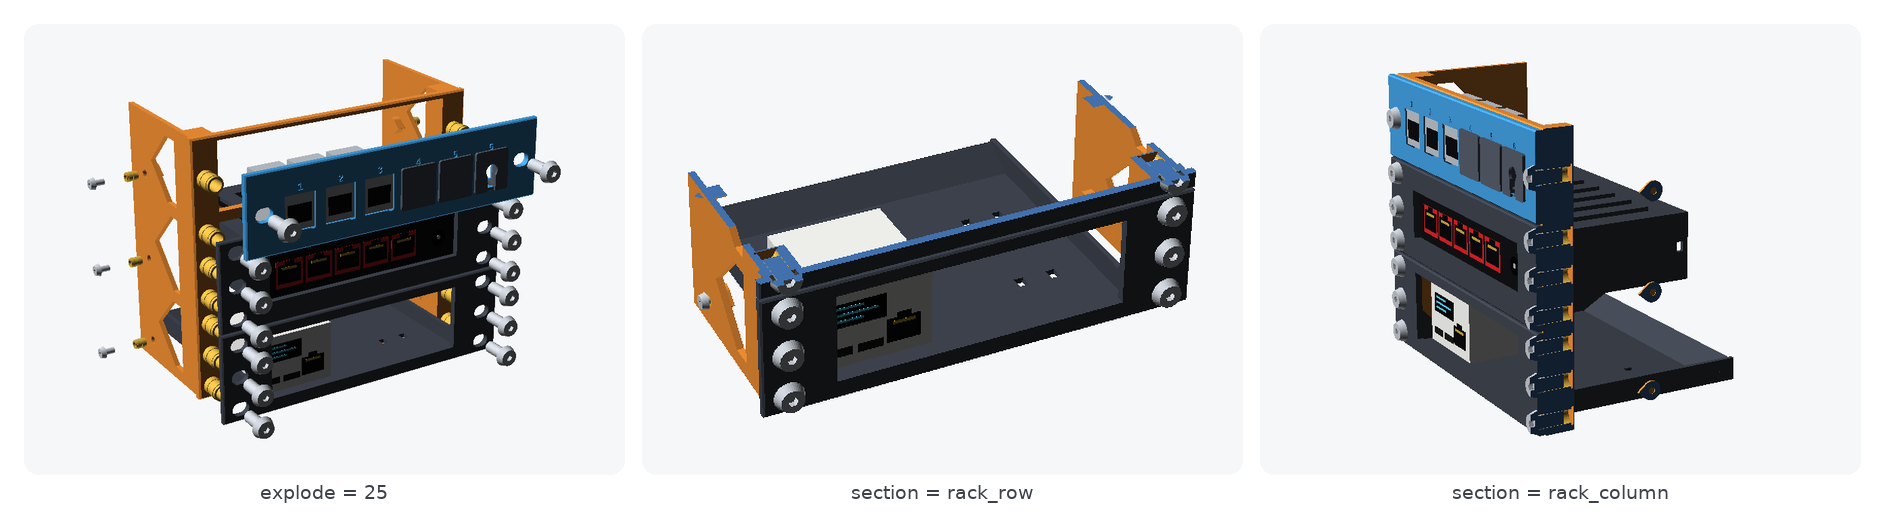
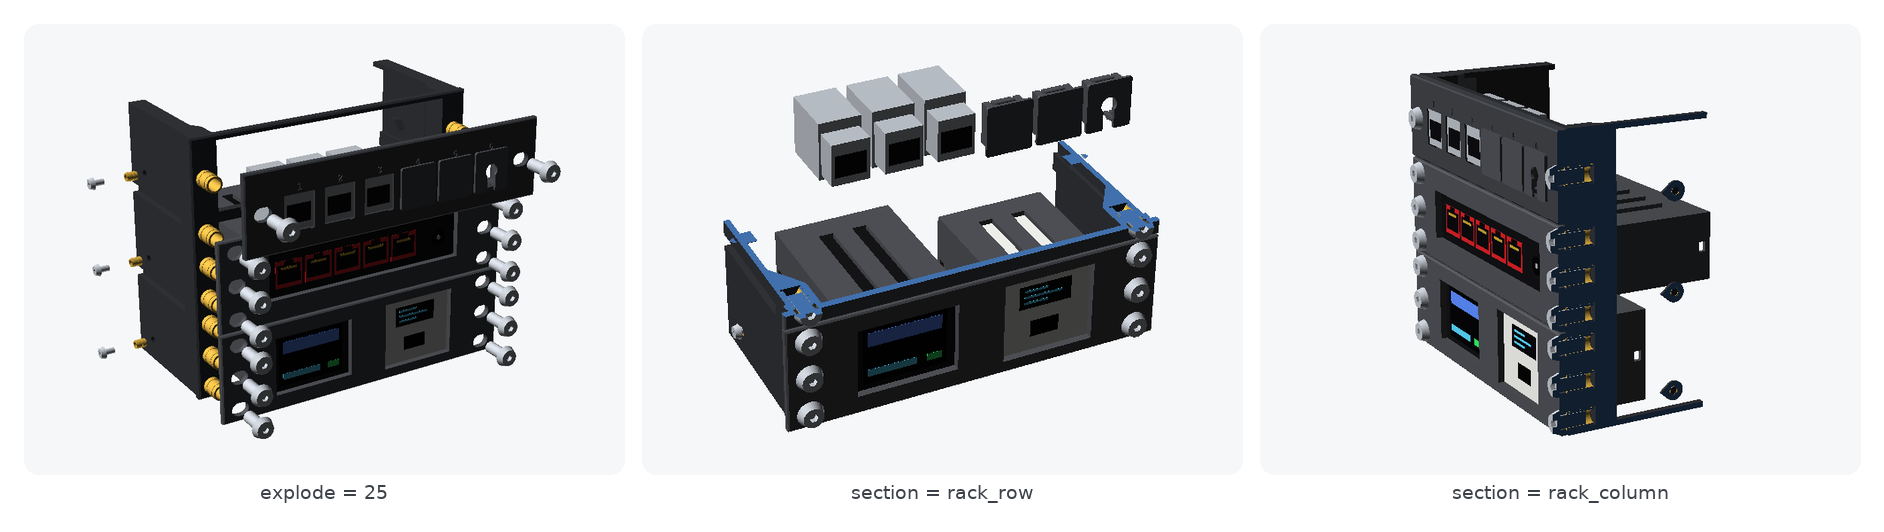
README images rendered again from the v2 adapter (new trays, NanoKVM bay); fix the 3D preview hanging on a build with no rack units (empty module list looped backwards)

diff --git a/scripts/render_docs.py b/scripts/render_docs.py
@@ -27,7 +27,7 @@ BEZEL = {"front_style": "bezel", "filler_mode": "integral"}
 
 # name: (camera, raw size, viewall, params)  - raw size is 2x the card size
 VIEWS = {
-    "homelab-back":    ("1150,1650,800,240,260,-60", "1200,900", False, {}),
+    "rack-nkvm":       ("-170,-330,150,0,0,60", "1200,900", False, {"scene": "single", "case_view": "none", "rack_modules": "nkvm:side,ms105g"}),
     "rack-close":      ("-170,-330,150,0,0,60", "1200,900", False, {"scene": "single", "case_view": "none"}),
     "mounted-bezel":   (CLOSE, "1200,900", False, {**BEZEL, "scene": "single"}),
     "mounted-1bay":    ("-260,-400,200,0,40,15", "1200,900", False, {"bays": 1, "case_model": "obsidian750d", **BEZEL, "scene": "single"}),
@@ -56,8 +56,8 @@ VIEWS = {
 }
 
 SHEETS = {
-    "homelab.png":  (2, [("homelab-back", "cables: back of the case -> patch panel"),
-                         ("rack-close", "MS105G switch · NanoKVM shelf · patch panel")]),
+    "homelab.png":  (2, [("rack-nkvm", "NanoKVM bay · MS105G switch · patch panel"),
+                         ("rack-close", "MS105G switch · JetKVM + NanoKVM tray · patch panel")]),
     "variants.png": (3, [("pf-1", "plate-flush · 1 bay · 6-port patch"),
                          ("pf-3", "plate-flush · 3 bays · 2U + patch"),
                          ("pf-4", "plate-flush · 4 bays · 3U + patch"),

diff --git a/CHANGELOG.md b/CHANGELOG.md
@@ -5,6 +5,8 @@ on the photos and in the MakerWorld notes.
 
 ## Unreleased
 
+- README images rendered again from the v2 adapter, with the new trays and the NanoKVM bay.
+- Fixed: a 1-bay build (no rack units) hung the 3D preview.
 - Tolerances: `ks_fit` for every keystone opening (cells, cut-outs and covers follow), `nkvm_insert_d`, `mount_clear` round the NanoKVM; README and web tell you to print the test pieces first and tune them.
 - Every number and size has a range (customizer and web), and the model warns about values that do not go together.
 - NanoKVM bay (`nkvm:side`, `nkvm:front`) with a lid on M3 heat-set inserts: standing in a front pocket with its heatsink facing out and the plugs inside the pocket, or lying flat behind the plate with only Ethernet at the front; up to two keystones.

diff --git a/README.es.md b/README.es.md
@@ -53,7 +53,7 @@ de la parte trasera y terminan en los keystones de detrás del patch panel; unos
 conectan a los switches. Los colores de los cables son VLANs: clientes, servidores, el troncal al punto de acceso y la
 WAN, de la tarjeta de red del router a la caja de fibra.
 
-![Cables desde la parte trasera de la caja hasta el patch panel](docs/img/homelab.png)
+![El rack con la bahía NanoKVM, el switch y el patch panel](docs/img/homelab.png)
 
 ## El problema de la altura
 

diff --git a/README.md b/README.md
@@ -53,7 +53,7 @@ slots** at the back and end in the keystones behind the patch panel; short patch
 the switches. Cable colours are VLANs: clients, servers, the trunk to the access point and the WAN from the
 router's network card to the fibre box.
 
-![Cables from the back of the case to the patch panel](docs/img/homelab.png)
+![The rack with the NanoKVM bay, the switch and the patch panel](docs/img/homelab.png)
 
 ## The height problem
 
